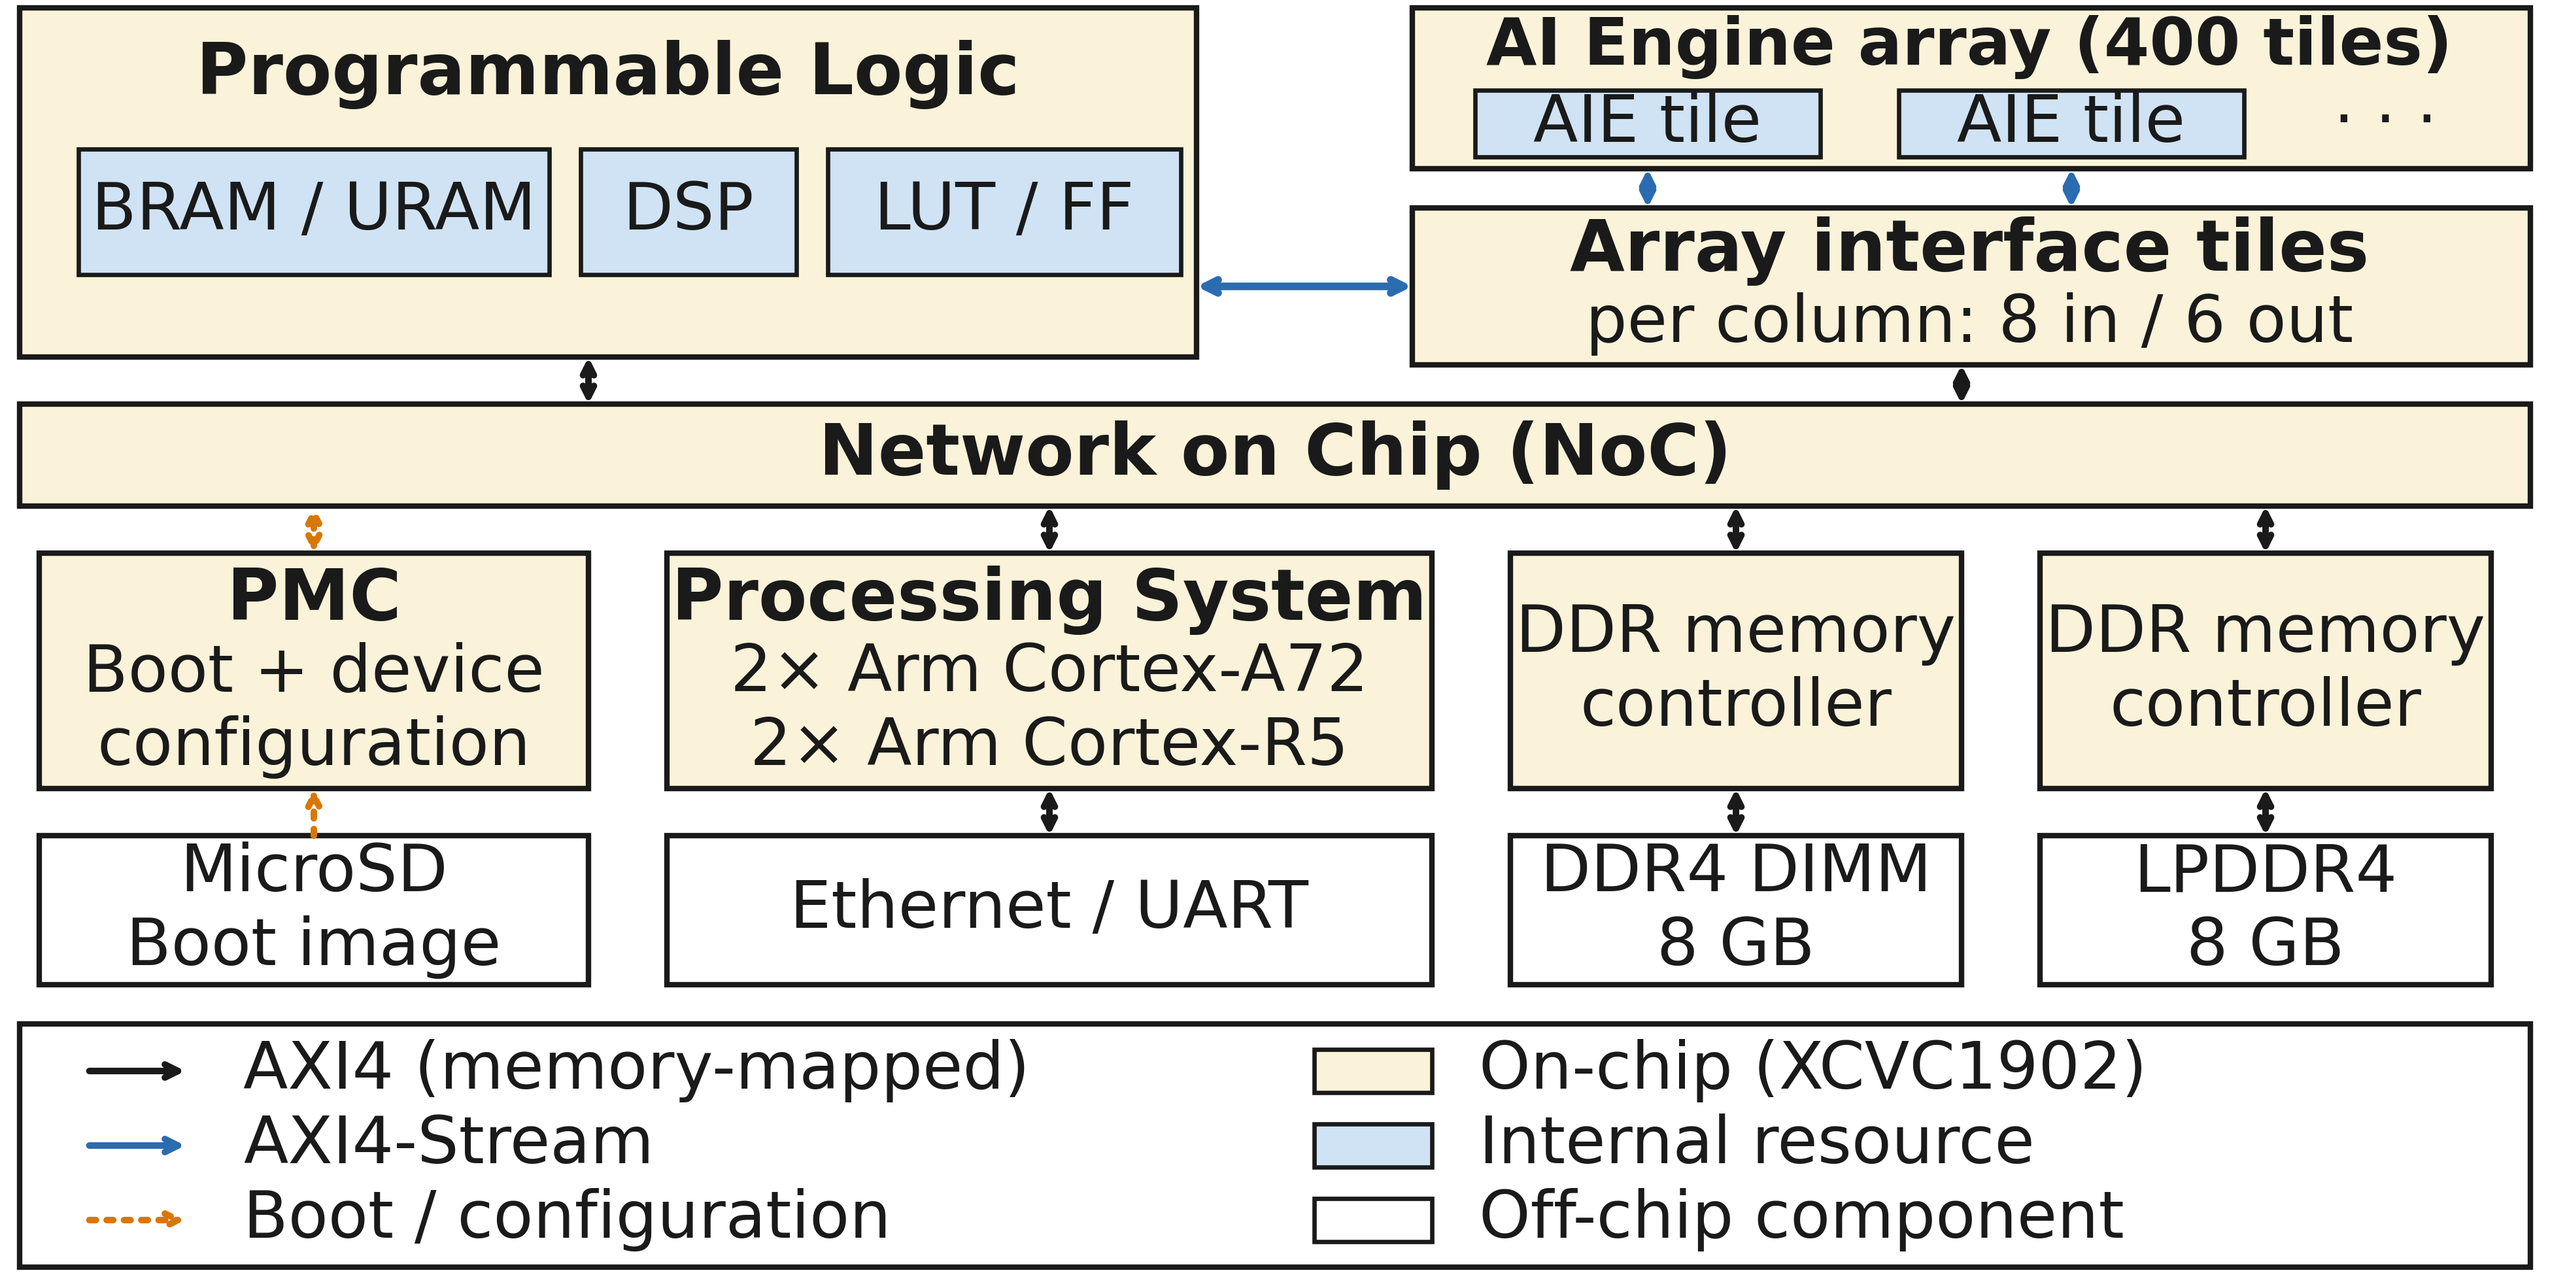
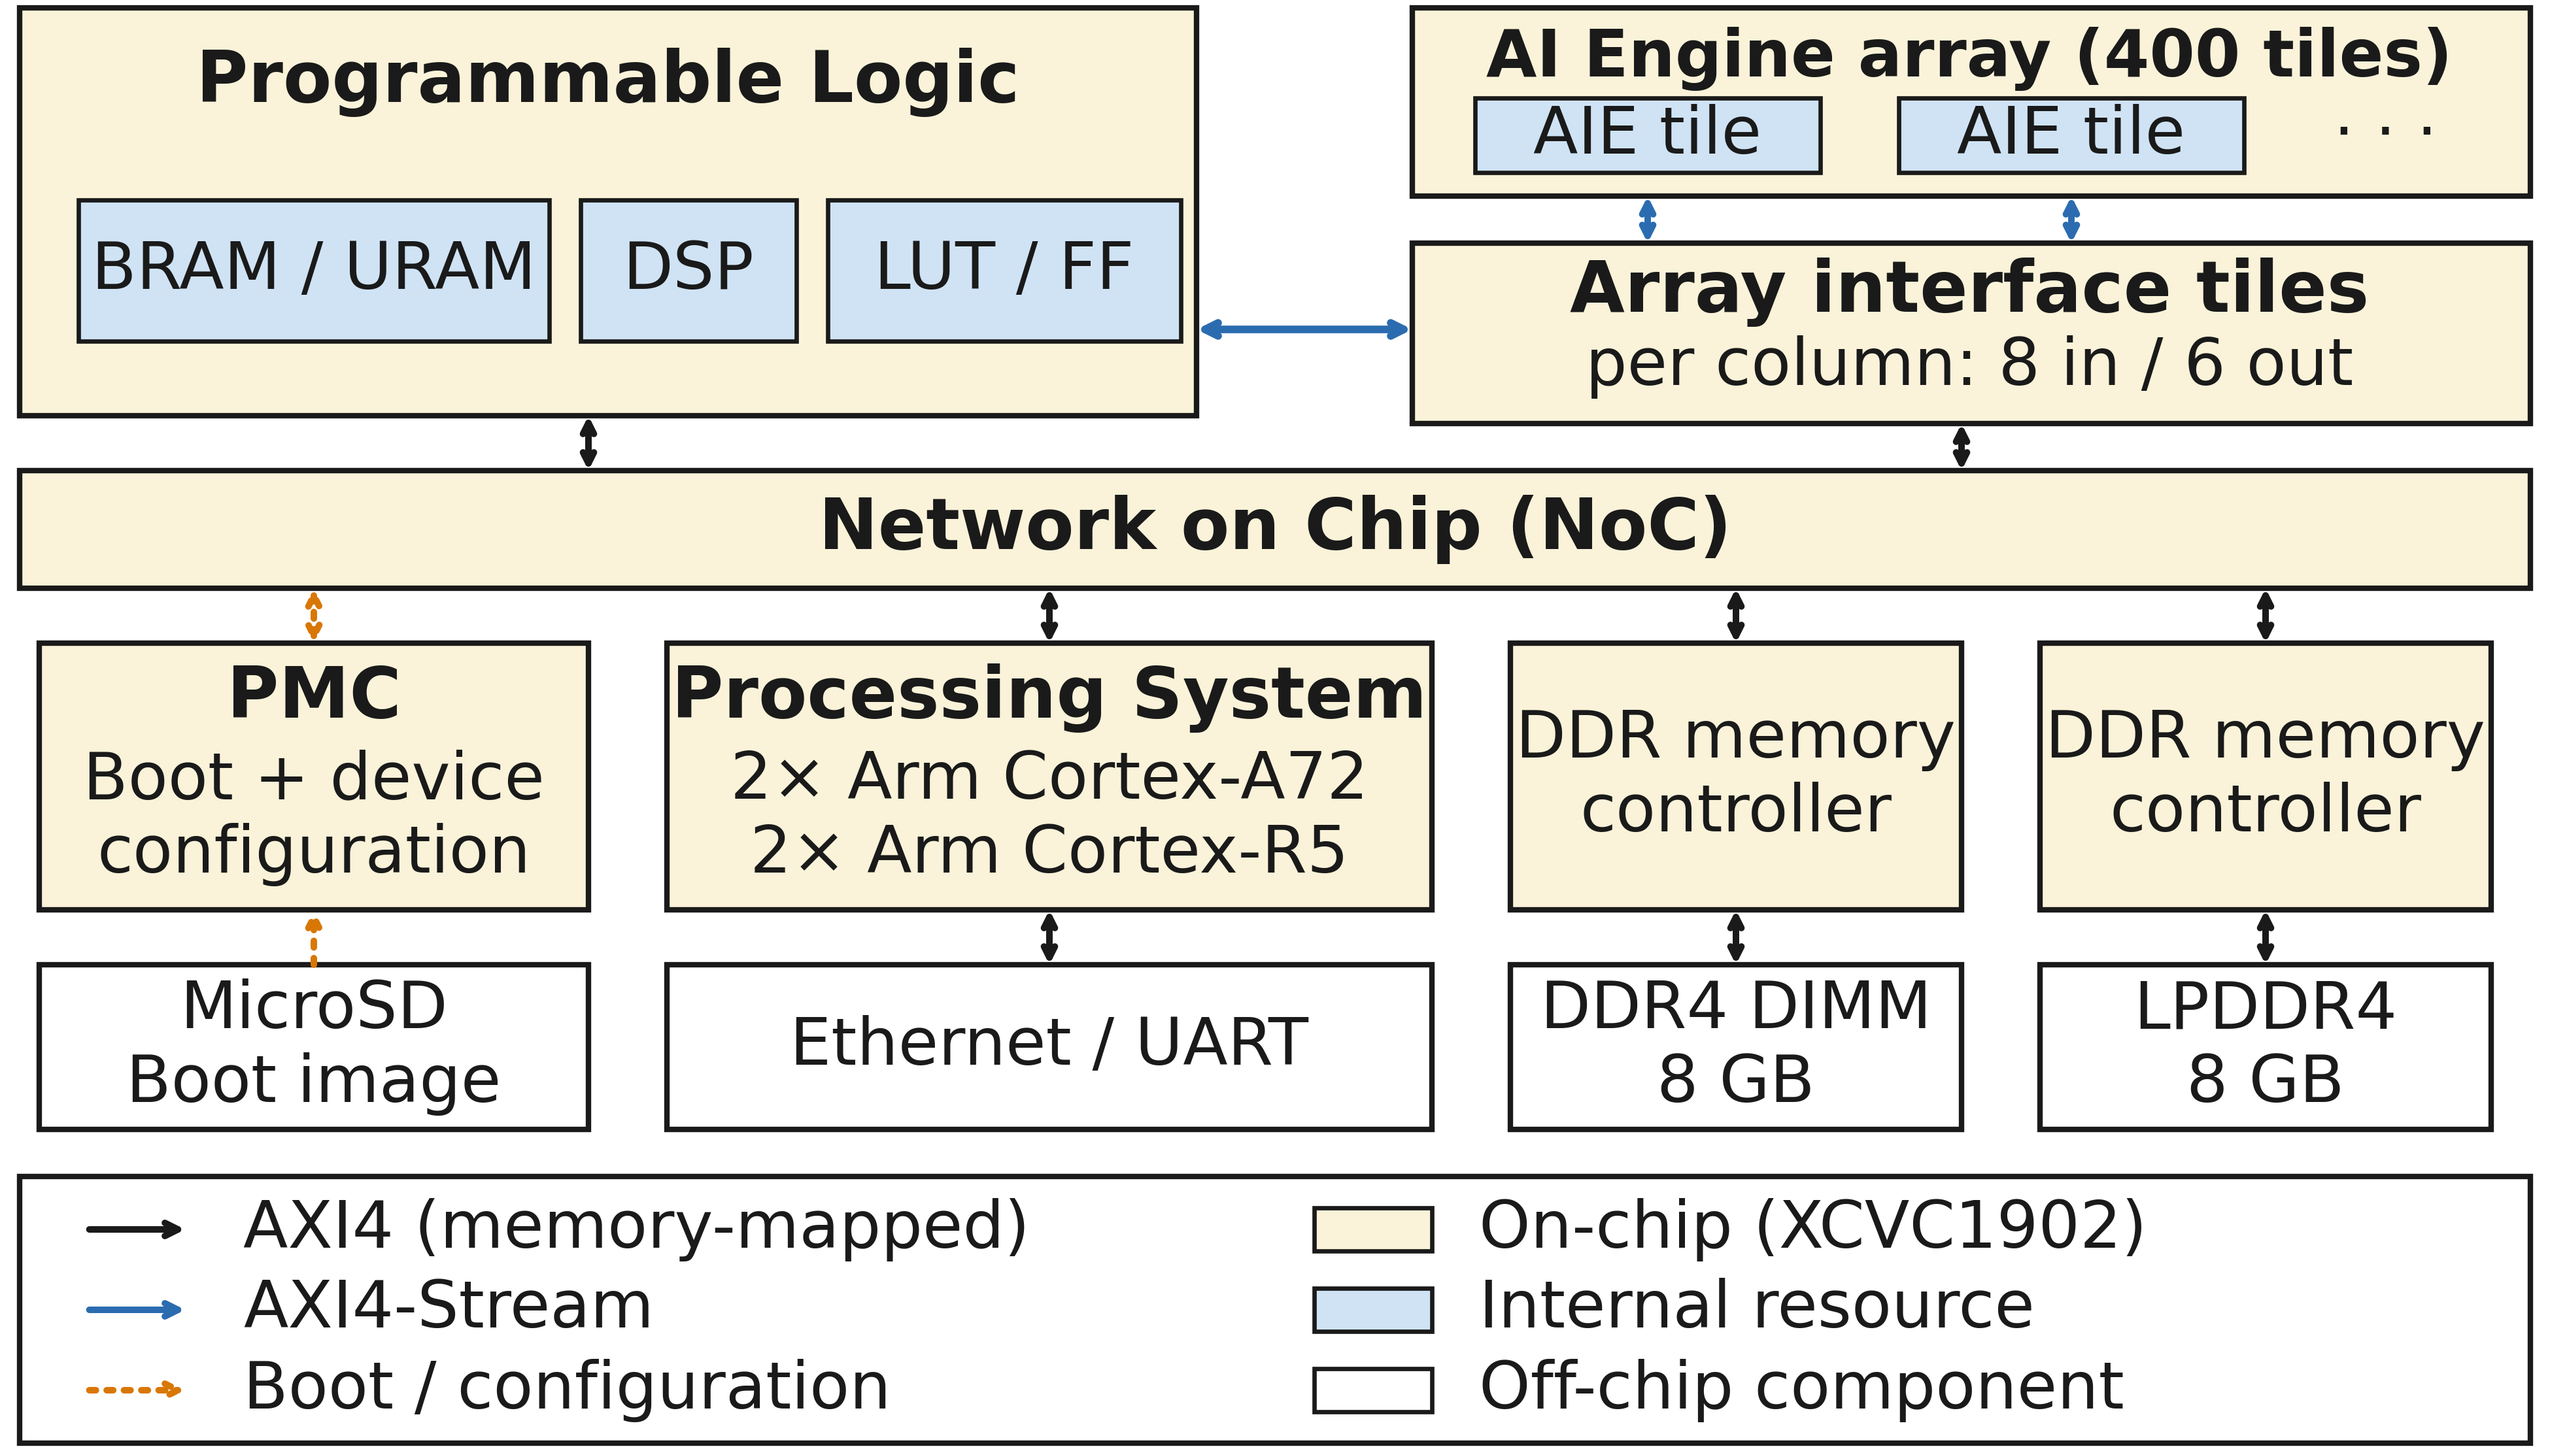
schematic: restore whitespace via 1.76:1 canvas (6.5 x 3.7 in)
At exactly 2:1 the 12 pt minimum consumes the full height (~15 line
heights in 3.25 in), leaving zero padding; 0.45 in of extra height is
distributed as box padding and row gaps instead.

diff --git a/scripts/make_vck190_schematic.py b/scripts/make_vck190_schematic.py
@@ -20,7 +20,7 @@ import matplotlib.pyplot as plt
 from matplotlib.patches import Rectangle, FancyArrowPatch
 
 TEXTWIDTH = 6.5          # inches -- set to the journal's \textwidth
-H = TEXTWIDTH / 2        # 2:1
+H = 3.7                  # ~1.76:1 -- exact 2:1 leaves zero padding at 12 pt
 
 ONCHIP  = "#faf3d9"   # on-chip blocks
 ONCHIP2 = "#cfe3f5"   # internal resources within an on-chip block
@@ -48,71 +48,71 @@ def arrow(p0, p1, color=BLACK, lw=1.2, ls="-", both=True, z=4, head=6):
                                  linestyle=ls, zorder=z, shrinkA=0, shrinkB=0))
 
 # ---------------- Programmable Logic (top left) ----------------
-box(0.05, 2.34, 3.05, 3.23, fc=ONCHIP)
-txt(1.55, 3.06, "Programmable Logic", FST, "bold")
+box(0.05, 2.64, 3.05, 3.68, fc=ONCHIP)
+txt(1.55, 3.49, "Programmable Logic", FST, "bold")
 for x0, x1, lab in [(0.20, 1.40, "BRAM / URAM"), (1.48, 2.03, "DSP"),
                     (2.11, 3.01, "LUT / FF")]:
-    box(x0, 2.55, x1, 2.87, fc=ONCHIP2, lw=0.8, z=3)
-    txt((x0 + x1) / 2, 2.71, lab, FS, z=6)
+    box(x0, 2.83, x1, 3.19, fc=ONCHIP2, lw=0.8, z=3)
+    txt((x0 + x1) / 2, 3.01, lab, FS, z=6)
 
 # ---------------- AI Engine array + interface tiles (top right) ----------------
-box(3.60, 2.82, 6.45, 3.23, fc=ONCHIP)
-txt(5.02, 3.13, "AI Engine array (400 tiles)", FS, "bold")
+box(3.60, 3.20, 6.45, 3.68, fc=ONCHIP)
+txt(5.02, 3.55, "AI Engine array (400 tiles)", FS, "bold")
 for x0 in (3.76, 4.84):
-    box(x0, 2.85, x0 + 0.88, 3.02, fc=ONCHIP2, lw=0.8, z=3)
-    txt(x0 + 0.44, 2.935, "AIE tile", FS, z=6)
-txt(6.08, 2.935, "· · ·", FS)
+    box(x0, 3.26, x0 + 0.88, 3.45, fc=ONCHIP2, lw=0.8, z=3)
+    txt(x0 + 0.44, 3.355, "AIE tile", FS, z=6)
+txt(6.08, 3.355, "· · ·", FS)
 
-box(3.60, 2.32, 6.45, 2.72, fc=ONCHIP)
-txt(5.02, 2.61, "Array interface tiles", FST, "bold")
-txt(5.02, 2.425, "per column: 8 in / 6 out", FS)
+box(3.60, 2.62, 6.45, 3.08, fc=ONCHIP)
+txt(5.02, 2.955, "Array interface tiles", FST, "bold")
+txt(5.02, 2.765, "per column: 8 in / 6 out", FS)
 
 # interface <-> array streams; PL <-> interface direct AXI4-Stream
-arrow((4.20, 2.72), (4.20, 2.82), color=BLUE, lw=1.2, head=5)
-arrow((5.28, 2.72), (5.28, 2.82), color=BLUE, lw=1.2, head=5)
-arrow((3.05, 2.52), (3.60, 2.52), color=BLUE, lw=1.4)
+arrow((4.20, 3.08), (4.20, 3.20), color=BLUE, lw=1.2, head=5)
+arrow((5.28, 3.08), (5.28, 3.20), color=BLUE, lw=1.2, head=5)
+arrow((3.05, 2.86), (3.60, 2.86), color=BLUE, lw=1.4)
 
 # ---------------- NoC ----------------
-box(0.05, 1.96, 6.45, 2.22, fc=ONCHIP)
-txt(3.25, 2.09, "Network on Chip (NoC)", FST, "bold")
-arrow((1.50, 2.34), (1.50, 2.22), head=5)    # PL <-> NoC
-arrow((5.00, 2.32), (5.00, 2.22), head=5)    # AIE interface <-> NoC
+box(0.05, 2.20, 6.45, 2.50, fc=ONCHIP)
+txt(3.25, 2.35, "Network on Chip (NoC)", FST, "bold")
+arrow((1.50, 2.64), (1.50, 2.50), head=5)    # PL <-> NoC
+arrow((5.00, 2.62), (5.00, 2.50), head=5)    # AIE interface <-> NoC
 
 # ---------------- subsystem row: PMC, PS, DDR controllers ----------------
-box(0.10, 1.24, 1.50, 1.84, fc=ONCHIP)
-txt(0.80, 1.72, "PMC", FST, "bold")
-txt(0.80, 1.44, "Boot + device\nconfiguration", FS)
+box(0.10, 1.38, 1.50, 2.06, fc=ONCHIP)
+txt(0.80, 1.92, "PMC", FST, "bold")
+txt(0.80, 1.615, "Boot + device\nconfiguration", FS)
 
-box(1.70, 1.24, 3.65, 1.84, fc=ONCHIP)
-txt(2.675, 1.72, "Processing System", FST, "bold")
-txt(2.675, 1.44, "2× Arm Cortex-A72\n2× Arm Cortex-R5", FS)
+box(1.70, 1.38, 3.65, 2.06, fc=ONCHIP)
+txt(2.675, 1.92, "Processing System", FST, "bold")
+txt(2.675, 1.615, "2× Arm Cortex-A72\n2× Arm Cortex-R5", FS)
 
 for x0 in (3.85, 5.20):
-    box(x0, 1.24, x0 + 1.15, 1.84, fc=ONCHIP)
-    txt(x0 + 0.575, 1.54, "DDR memory\ncontroller", FS)
+    box(x0, 1.38, x0 + 1.15, 2.06, fc=ONCHIP)
+    txt(x0 + 0.575, 1.72, "DDR memory\ncontroller", FS)
 
-arrow((0.80, 1.84), (0.80, 1.96), color=ORANGE, ls=":", head=5)
-arrow((2.675, 1.84), (2.675, 1.96), head=5)
-arrow((4.425, 1.84), (4.425, 1.96), head=5)
-arrow((5.775, 1.84), (5.775, 1.96), head=5)
+arrow((0.80, 2.06), (0.80, 2.20), color=ORANGE, ls=":", head=5)
+arrow((2.675, 2.06), (2.675, 2.20), head=5)
+arrow((4.425, 2.06), (4.425, 2.20), head=5)
+arrow((5.775, 2.06), (5.775, 2.20), head=5)
 
 # ---------------- off-chip components ----------------
-box(0.10, 0.74, 1.50, 1.12)
-txt(0.80, 0.93, "MicroSD\nBoot image", FS)
-box(1.70, 0.74, 3.65, 1.12)
-txt(2.675, 0.93, "Ethernet / UART", FS)
-box(3.85, 0.74, 5.00, 1.12)
-txt(4.425, 0.93, "DDR4 DIMM\n8 GB", FS)
-box(5.20, 0.74, 6.35, 1.12)
-txt(5.775, 0.93, "LPDDR4\n8 GB", FS)
+box(0.10, 0.82, 1.50, 1.24)
+txt(0.80, 1.03, "MicroSD\nBoot image", FS)
+box(1.70, 0.82, 3.65, 1.24)
+txt(2.675, 1.03, "Ethernet / UART", FS)
+box(3.85, 0.82, 5.00, 1.24)
+txt(4.425, 1.03, "DDR4 DIMM\n8 GB", FS)
+box(5.20, 0.82, 6.35, 1.24)
+txt(5.775, 1.03, "LPDDR4\n8 GB", FS)
 
-arrow((0.80, 1.12), (0.80, 1.24), color=ORANGE, ls=":", both=False, head=5)
-arrow((2.675, 1.12), (2.675, 1.24), head=5)
-arrow((4.425, 1.12), (4.425, 1.24), head=5)
-arrow((5.775, 1.12), (5.775, 1.24), head=5)
+arrow((0.80, 1.24), (0.80, 1.38), color=ORANGE, ls=":", both=False, head=5)
+arrow((2.675, 1.24), (2.675, 1.38), head=5)
+arrow((4.425, 1.24), (4.425, 1.38), head=5)
+arrow((5.775, 1.24), (5.775, 1.38), head=5)
 
 # ---------------- legend (bottom strip, 3 rows x 2 columns) ----------------
-box(0.05, 0.02, 6.45, 0.64, fc="white", z=6)
+box(0.05, 0.02, 6.45, 0.70, fc="white", z=6)
 items = [
     (BLACK,  "-",  "AXI4 (memory-mapped)", "arrow"),
     (BLUE,   "-",  "AXI4-Stream",          "arrow"),
@@ -123,7 +123,7 @@ items = [
 ]
 for i, (col, ls, lab, kind) in enumerate(items):
     x = 0.20 if i < 3 else 3.35
-    y = (0.52, 0.33, 0.14)[i % 3]
+    y = (0.565, 0.36, 0.155)[i % 3]
     if kind == "arrow":
         ax.add_patch(FancyArrowPatch((x, y), (x + 0.30, y), arrowstyle="->",
                                      mutation_scale=6, color=col, lw=1.2,
